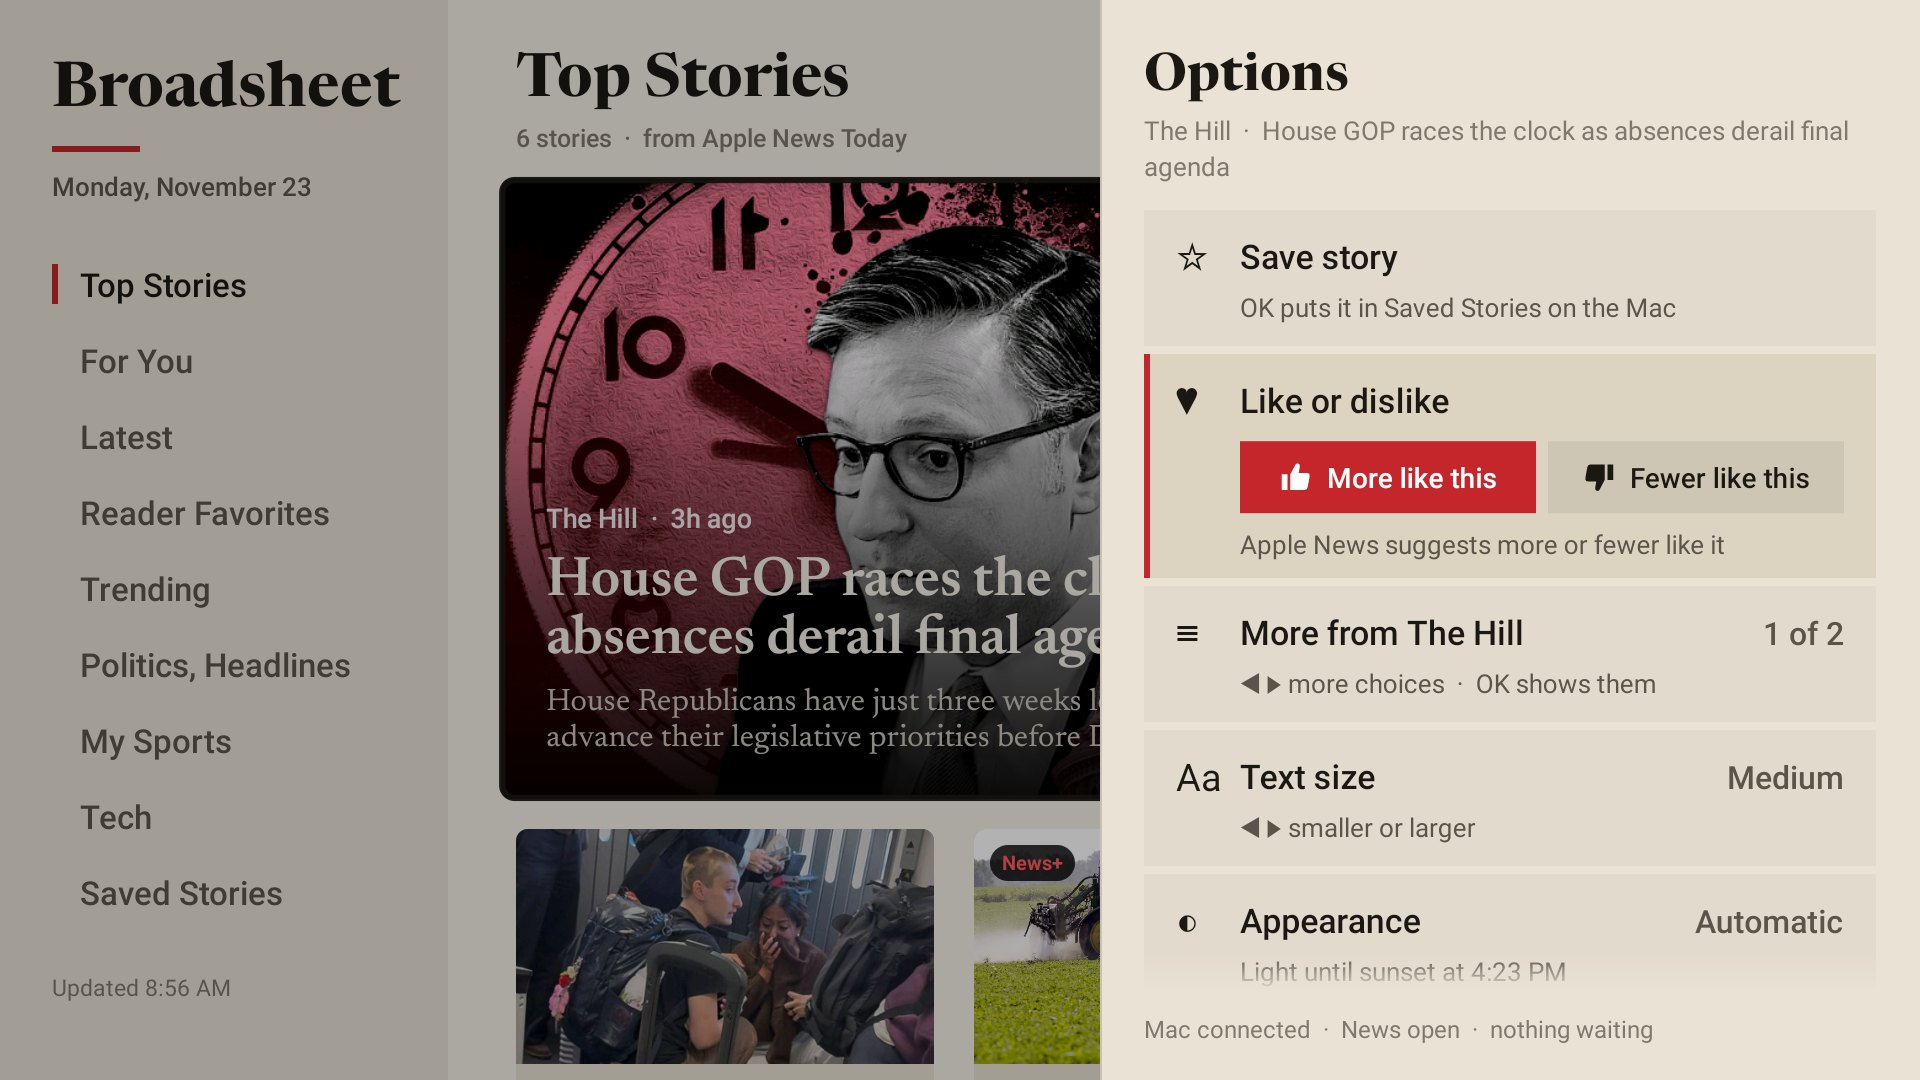
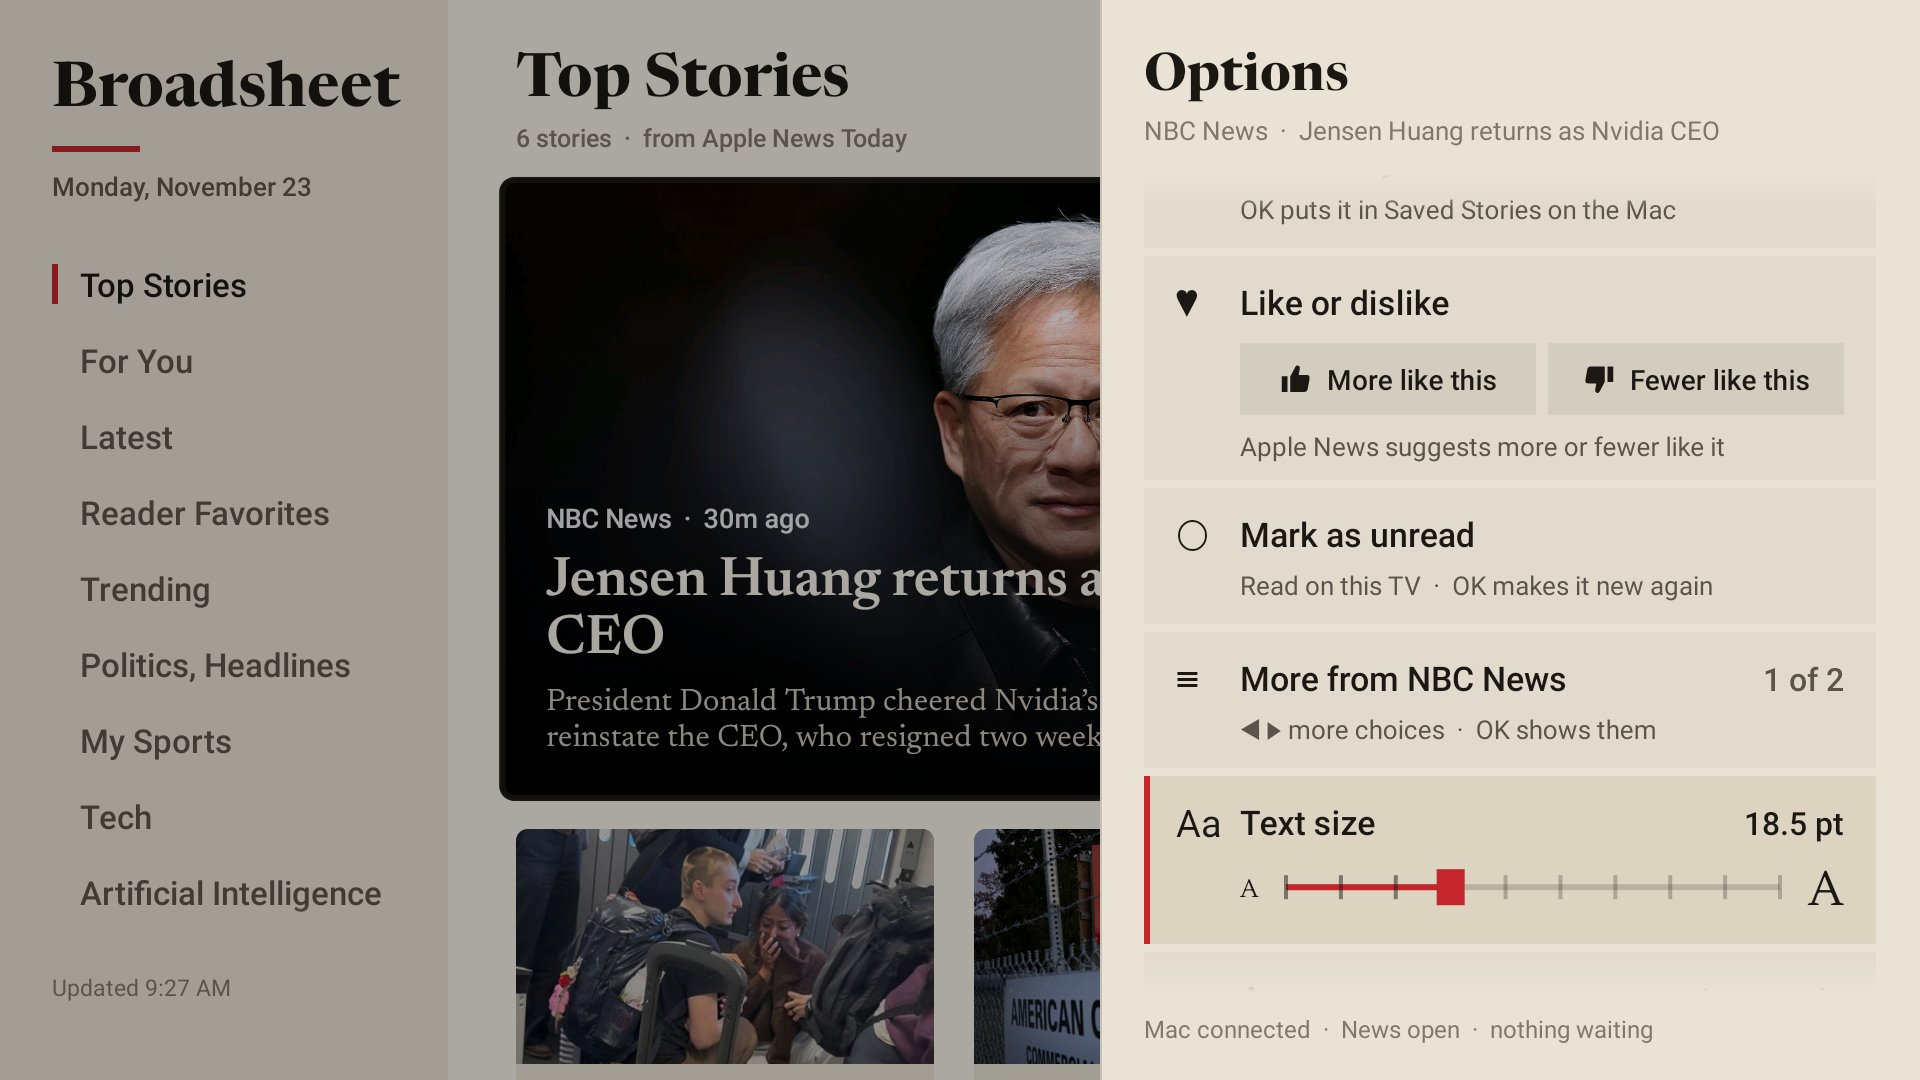
Broadsheet 0.2.2: mark as unread; new screenshots
- Options: Mark as unread (or as read) for the story being read or the focused card, so a
  story read on the TV stops being dimmed or hidden. A story marked unread while open stays
  unread when the reader closes.
- Fix: opening a story from the front page counted the story the reader last showed as read
  again (it kept that story while hidden); only the story on screen is counted now.
- The video's Play label is square like the rest.
- Screenshots: front page in light and dark, the options panel with the text slider, the
  reader, a selected video, and a story on its way.

diff --git a/src/io/github/vladislavekimtcov/broadsheet/Main.java b/src/io/github/vladislavekimtcov/broadsheet/Main.java
@@ -66,7 +66,11 @@ public final class Main extends Activity implements Front.Listener, Reader.Liste
 
     // the options panel's state
     private Story target;
-    private Options.Tile saveTile, reactTile, moreTile, sizeTile, themeTile, readTile, continueTile, refreshTile;
+    private Options.Tile saveTile, reactTile, unreadTile, moreTile, sizeTile, themeTile, readTile, continueTile, refreshTile;
+    /** The open story was marked unread: leaving it mustn't count it as read again. */
+    private String keptUnread;
+    /** The story on screen in the reader, or null while the front page shows. */
+    private Story reading;
     private final List<String[]> moreChoices = new ArrayList<>();
     private int moreIndex;
     private boolean saveBusy, reactBusy, moreBusy;
@@ -293,6 +297,8 @@ public final class Main extends Activity implements Front.Listener, Reader.Liste
 
     private void open(final Story s) {
         leaveStory();
+        keptUnread = null;
+        reading = s;
         reader.show(s);
         float at = library.position(s.id);
         pendingRestore = at > 0.04f && at < 0.95f ? at : 0f;
@@ -366,8 +372,9 @@ public final class Main extends Activity implements Front.Listener, Reader.Liste
 
     /** Remembers how far into the open story the reader got. */
     private void leaveStory() {
-        Story s = reader.story();
-        if (s == null || reader.getVisibility() != View.VISIBLE || reader.article() == null) return;
+        Story s = reading;
+        if (s == null || reader.story() != s || reader.article() == null) return;
+        if (s.id.equals(keptUnread)) return;
         float f = reader.fraction();
         library.setPosition(s, f > 0.97f ? 1f : f);
     }
@@ -384,6 +391,7 @@ public final class Main extends Activity implements Front.Listener, Reader.Liste
     @Override
     public void onClose() {
         leaveStory();
+        reading = null;
         library.save();
         reader.setVisibility(View.GONE);
         if (front.currentSection() == openSection) front.focusStory(openIndex);
@@ -537,6 +545,8 @@ public final class Main extends Activity implements Front.Listener, Reader.Liste
         reactTile.onOk = this::sendReaction;
         String r = s == null ? null : library.reaction(s.id);
         reactTile.segment = "dislike".equals(r) ? 1 : 0;
+        unreadTile = new Options.Tile("○", "Mark as unread");
+        unreadTile.onOk = this::toggleRead;
         moreTile = new Options.Tile("≡", "More like this");
         moreTile.onStep = d -> {
             moreIndex = Math.max(0, Math.min(moreChoices.size() - 1, moreIndex + d));
@@ -592,6 +602,7 @@ public final class Main extends Activity implements Front.Listener, Reader.Liste
         List<Options.Tile> tiles = new ArrayList<>();
         tiles.add(saveTile);
         tiles.add(reactTile);
+        tiles.add(unreadTile);
         tiles.add(moreTile);
         tiles.add(sizeTile);
         tiles.add(themeTile);
@@ -663,6 +674,14 @@ public final class Main extends Activity implements Front.Listener, Reader.Liste
         reactTile.hint = !has ? pick : reactError != null ? reactError : r != null ? "OK on it again takes it back"
                 : "Apple News suggests more or fewer like it";
 
+        boolean read = has && library.isRead(s.id) && !s.id.equals(keptUnread);
+        unreadTile.enabled = has;
+        unreadTile.icon = read ? "○" : "●";
+        unreadTile.label = read ? "Mark as unread" : "Mark as read";
+        unreadTile.hint = !has ? pick : read ? "Read on this TV  ·  OK makes it new again"
+                : "dim".equals(readMode()) ? "OK fades it on the front page" : "hide".equals(readMode())
+                ? "OK hides it from the front page" : "OK counts it as read";
+
         moreTile.enabled = has && !moreChoices.isEmpty();
         String[] choice = moreTile.enabled ? moreChoices.get(moreIndex) : null;
         moreTile.label = choice != null ? choice[0] : "More like this";
@@ -693,6 +712,27 @@ public final class Main extends Activity implements Front.Listener, Reader.Liste
         refreshTile.value = loadedAt > 0 ? "Updated " + time(loadedAt) : "";
         refreshTile.hint = refreshing ? "Refreshing Apple News on the Mac…"
                 : "Automatically " + AUTO_REFRESH_NAMES[autoRefreshStep()] + "  ·  ◀ ▶";
+    }
+
+    /** Read on this TV or new again: what dims (or hides) it on the front page. */
+    private void toggleRead() {
+        Story s = target;
+        if (s == null) return;
+        boolean reading = reader.getVisibility() == View.VISIBLE && reader.story() != null && reader.story().id.equals(s.id);
+        if (library.isRead(s.id) && !s.id.equals(keptUnread)) {
+            library.markUnread(s.id);
+            if (reading) keptUnread = s.id;
+        } else {
+            library.markRead(s.id);
+            if (s.id.equals(keptUnread)) keptUnread = null;
+        }
+        library.save();
+        if ("hide".equals(readMode()) && !reading) {
+            shown = arrange();
+            if (!shown.isEmpty()) front.setSections(shown, true);
+        }
+        front.refreshDim();
+        fillOptions();
     }
 
     private void toggleSave() {
@@ -769,6 +809,7 @@ public final class Main extends Activity implements Front.Listener, Reader.Liste
         options.close();
         if (reader.getVisibility() == View.VISIBLE) {
             leaveStory();
+            reading = null;
             reader.setVisibility(View.GONE);
         }
         front.setSections(shown, false);

diff --git a/src/io/github/vladislavekimtcov/broadsheet/Library.java b/src/io/github/vladislavekimtcov/broadsheet/Library.java
@@ -58,6 +58,22 @@ final class Library {
         dirty = true;
     }
 
+    /** Forgets that a story was read here: it is new again (not dimmed or hidden, starts at the top). */
+    void markUnread(String id) {
+        read.remove(id);
+        Story s = last == null ? null : Story.from(last.optJSONObject("story"));
+        if (s != null && s.id.equals(id)) last = null;
+        dirty = true;
+    }
+
+    /** Counts a story as read without opening it (keeps a place already reached in it). */
+    void markRead(String id) {
+        Float f = read.get(id);
+        read.put(id, f == null ? 1f : f);
+        trim(read, KEEP_READ);
+        dirty = true;
+    }
+
     /** The last story read here when it was left unfinished in the past week, or null. */
     Story unfinished() {
         if (last == null || System.currentTimeMillis() - last.optLong("at") > 7 * 86400000L) return null;

diff --git a/src/io/github/vladislavekimtcov/broadsheet/Reader.java b/src/io/github/vladislavekimtcov/broadsheet/Reader.java
@@ -710,7 +710,7 @@ final class Reader extends FrameLayout {
                 String text = on ? (stream != null ? "▶  Play video   OK" : "Plays only in Apple News") : "▶  Video";
                 float tw = label.measureText(text);
                 label.setColor(on && stream != null ? Ui.ACCENT : 0xCC000000);
-                c.drawRoundRect(Ui.px(12), h - Ui.px(48), Ui.px(40) + tw, h - Ui.px(12), Ui.px(18), Ui.px(18), label);
+                c.drawRect(Ui.px(12), h - Ui.px(48), Ui.px(40) + tw, h - Ui.px(12), label);
                 label.setColor(0xFFFFFFFF);
                 c.drawText(text, Ui.px(26), h - Ui.px(24), label);
                 if (on) {

diff --git a/README.md b/README.md
@@ -10,7 +10,7 @@ Apple News has no Android app and no reader API, so Broadsheet gets the news fro
 that runs on your Mac and turns the News app into a local JSON API. The TV finds the relay on
 your network by itself.
 
-![Broadsheet's front page on a TV: a rail of sections on the left, a hero story, two briefs and rows of picture cards](docs/front-page.jpg)
+![Broadsheet's front page on a TV, light by day: a rail of sections on the left, a hero story, two briefs and a row of picture cards](docs/front-page.jpg)
 
 - **Front page:** a rail of sections on the left; a hero story, two briefs and rows of picture
   cards. Moving along the rail skims sections; cached pages open instantly. The hero's words sit
@@ -30,6 +30,7 @@ your network by itself.
   - **On the Mac** (like Handoff): when you're reading a story in Apple News on the Mac, or were
     in the last half hour, it's at the top of the panel; OK carries on with it on the TV.
   - **Save story** to Saved Stories on the Mac, or take it out again.
+  - **Mark as unread** (or as read): a story read on the TV stops being dimmed or hidden.
   - **Like or dislike**: Apple News's *Suggest More / Fewer Stories Like This*. OK on the same one
     takes it back.
   - **More from** the publisher, **More on** one of the story's topics, or **Related stories**,
@@ -53,9 +54,15 @@ your network by itself.
 - **Private:** what you read, how far, and your likes stay on the TV (`library.json` in the app's
   files). The Mac only learns what the TV asks of it.
 
-![The options panel over the front page in the light theme: Save story, Like or dislike, More from The Hill, Text size, Appearance](docs/options.jpg)
+![The options panel over the front page: Like or dislike with thumb icons, Mark as unread, More from NBC News, and the text size slider at 18.5 pt](docs/options.jpg)
+
+![The same front page after sunset, in the dark theme](docs/front-page-dark.jpg)
 
 ![The reader: dateline, headline, byline, standfirst and the lead picture in a single serif column](docs/reader.jpg)
+
+| | |
+|---|---|
+| ![A video in a story, selected as it scrolled into view: a ring and a red "Play video OK" label](docs/video.jpg) | ![A story on its way: the band at the bottom says "Asking the Mac for the story… 4 s" over a red bar, with "Running the press…" on the right](docs/loading.jpg) |
 
 ## Setup
 
